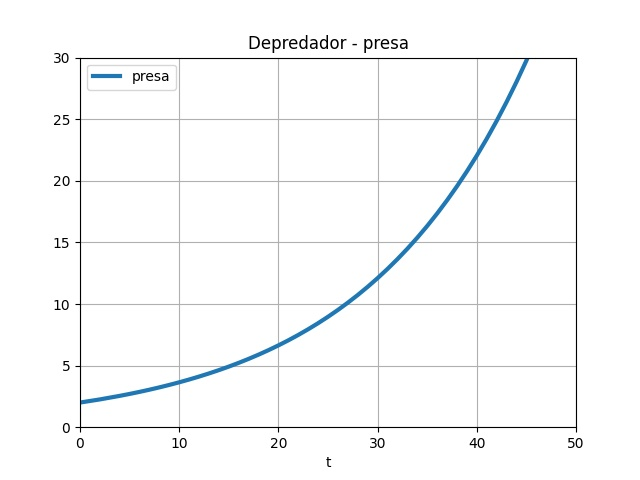
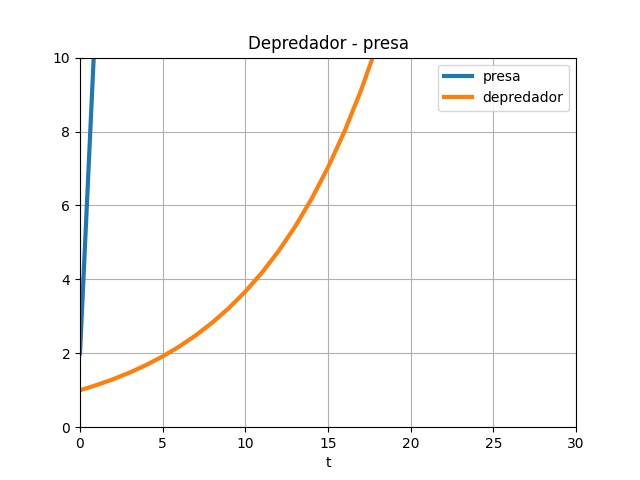
solo hay error en la funcion derivada

diff --git a/tp2/item_b/grafico.py b/tp2/item_b/grafico.py
@@ -6,12 +6,15 @@ plt.title('Depredador - presa')
 
 plt.xlabel('t')
 
-x = sol.solucion_x[1]
 t = sol.solucion_x[0]
+x = sol.solucion_x[1]
+y = sol.solucion_y[1]
 
 plt.plot(x, '-', lw=3, label='presa')
-plt.xlim(0, 50)
-plt.ylim(0, 30)
+plt.plot(y, '-', lw=3, label='depredador')
+
+plt.xlim(0, 30)
+plt.ylim(0, 10)
 plt.legend(loc='best')
 plt.grid(True)
 

diff --git a/tp2/item_a/derivadas/funciones.py b/tp2/item_a/derivadas/funciones.py
@@ -1,7 +1,7 @@
 def derivada_x(t, x): #ver si se necesita pasar t
 
-    return (1.2 * x) - (0.6 * x * 1) #sin integrar
-    #return (((6/5) * x) - ((3/5) * x * 1)) * 30 #integrando
+    return ((1.2 * x) - (0.6 * x * 1)) #sin integrar
+    #return t * (((6/5) * x) - ((3/5) * x * 1)) #integrando
 
 def derivada_y(t, y):
 

diff --git a/tp2/item_a/soluciones.py b/tp2/item_a/soluciones.py
@@ -2,8 +2,8 @@ import item_a.derivadas.funciones as f
 from item_a.rungeKuttaOrden4 import runge_kutta as runge
 
 solucion_x = runge(f.derivada_x, 2, 0.1, 0, 30)
-#solucion_y = runge(f.derivada_y, 1, 0.1, 0, 30)
+solucion_y = runge(f.derivada_y, 1, 0.1, 0, 30)
 
 print(solucion_x)
-#print(solucion_y)
+print(solucion_y)
 
